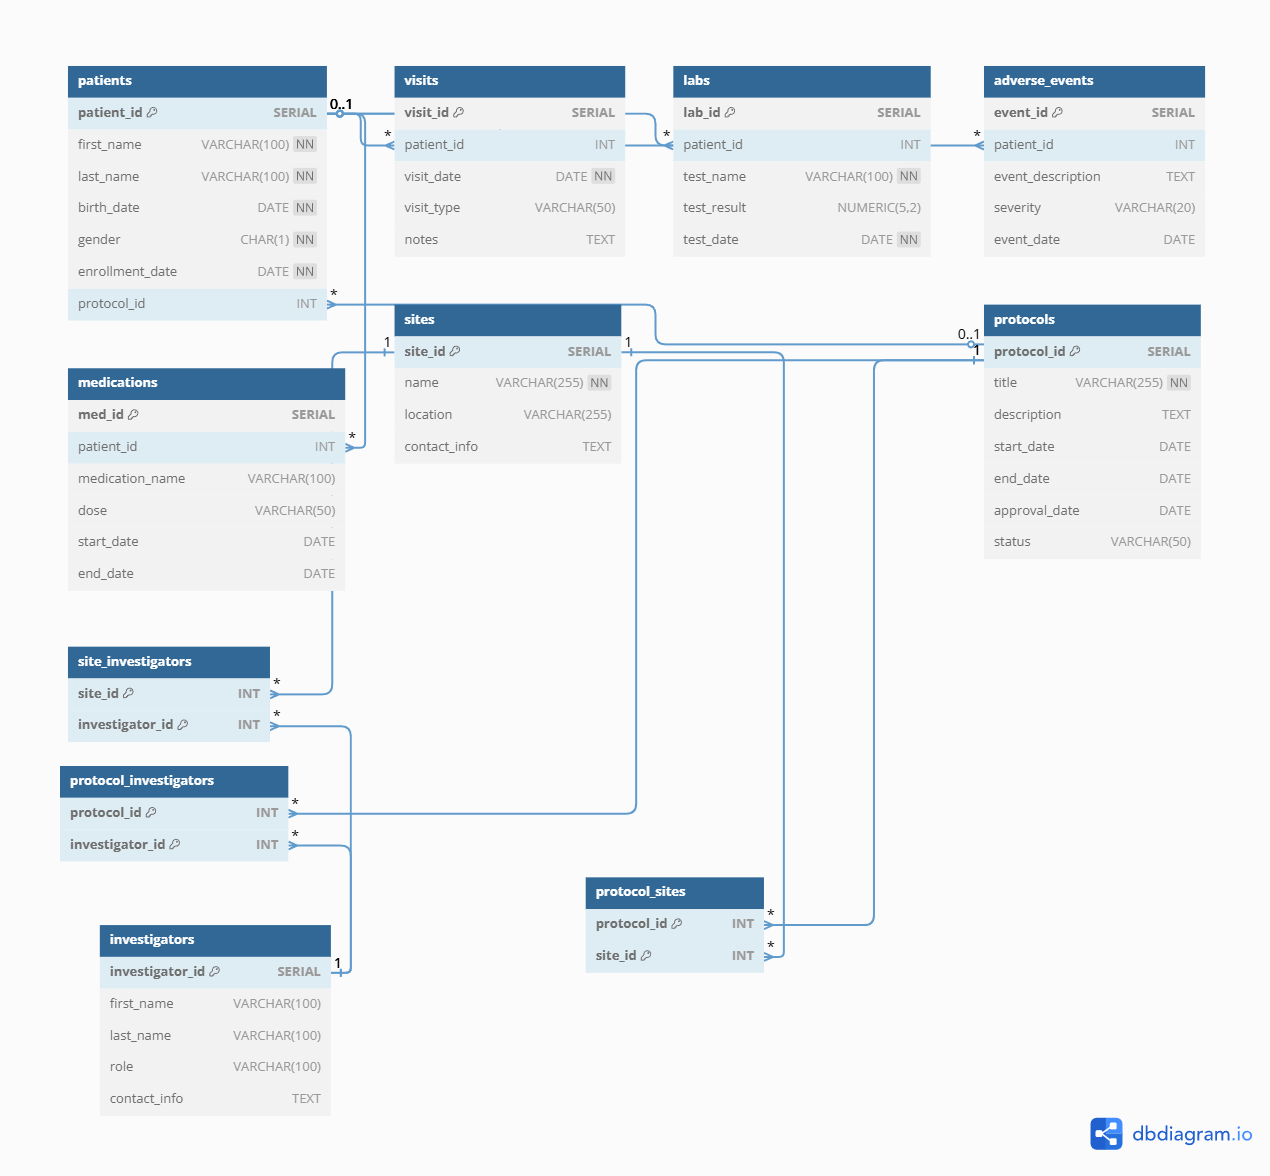
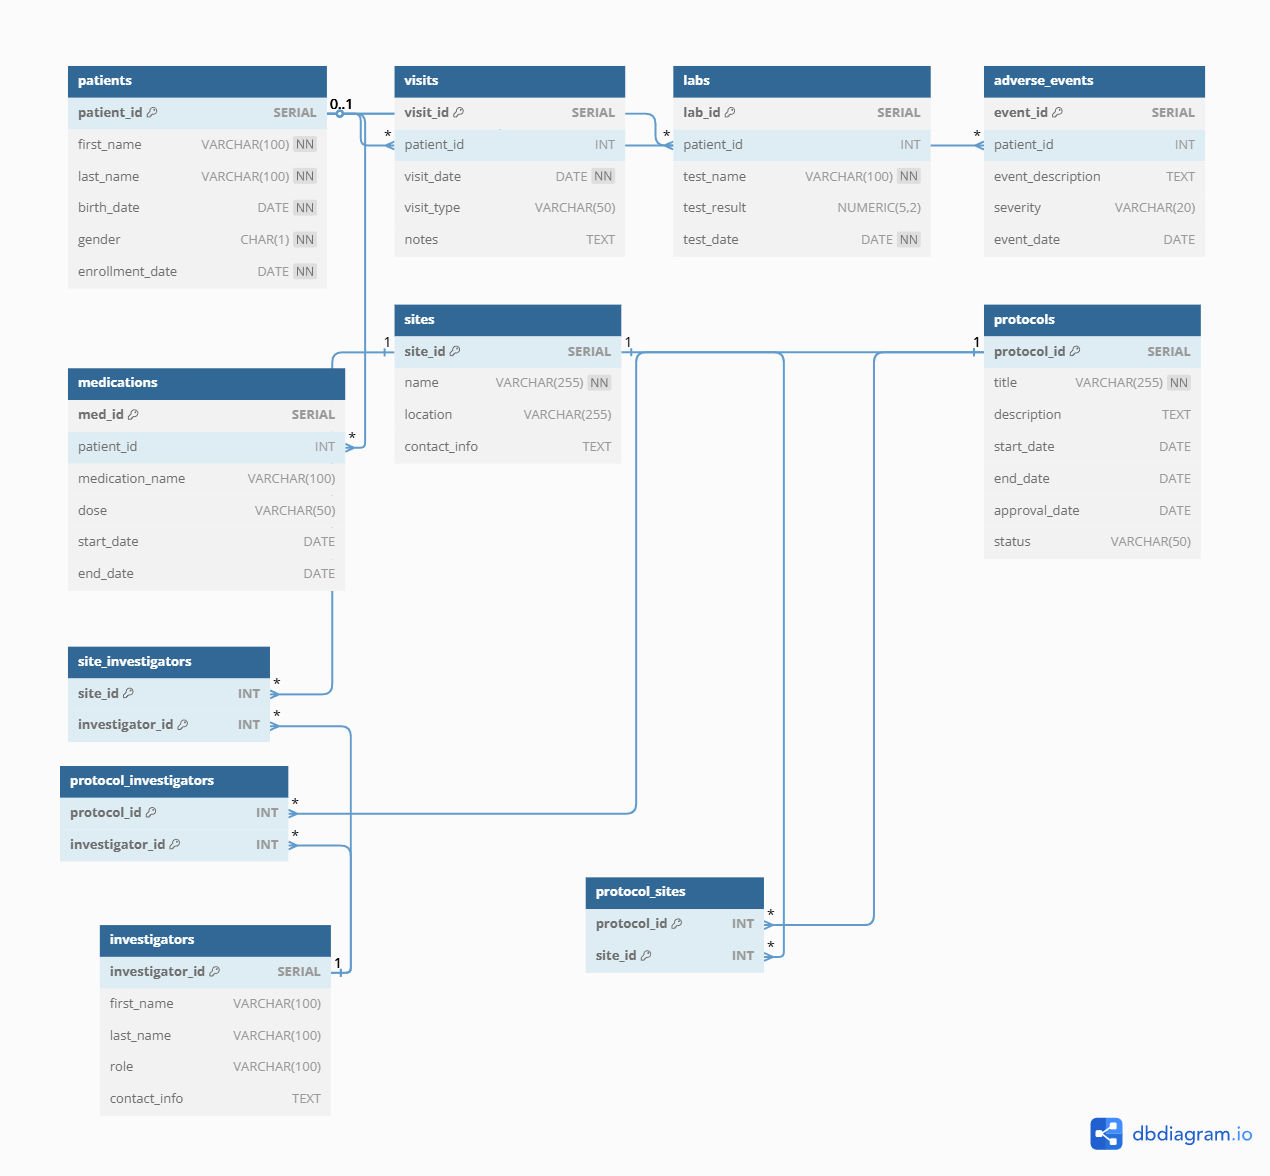
Updated schema to include protocol mappings and refreshed README

Changed region(s): [[0.4913, 0.2755, 0.7677, 0.3061], [0.0307, 0.2449, 0.2764, 0.2755]]

diff --git a/README.md b/README.md
@@ -28,32 +28,38 @@ The following diagram illustrates the relationships between all tables in the cl
 
 ## 🗂 Schema Overview
 
-| Table                | Description                                              |
-|----------------------|----------------------------------------------------------|
-| `patients`           | Demographic and enrollment data for each patient         |
-| `visits`             | Patient visit records with visit type and notes          |
-| `labs`               | Lab test results tied to patients                        |
-| `medications`        | Medications prescribed or administered to patients       |
-| `adverse_events`     | Adverse events reported during the clinical trial        |
-| `sites`              | Clinical trial sites and their locations                 |
-| `investigators`      | Trial investigators and their roles/contact info         |
-| `protocols`          | Protocols under which patients are enrolled              |
-| `site_investigators` | Many-to-many mapping of investigators to trial sites     |
+| Table                    | Description                                                   |
+|--------------------------|---------------------------------------------------------------|
+| `patients`               | Demographic and enrollment data for each patient              |
+| `visits`                 | Patient visit records with visit type and notes               |
+| `labs`                   | Lab test results tied to patients                             |
+| `medications`            | Medications prescribed or administered to patients            |
+| `adverse_events`         | Adverse events reported during the clinical trial             |
+| `sites`                  | Clinical trial sites and their locations                      |
+| `investigators`          | Trial investigators and their roles/contact info              |
+| `protocols`              | Protocols defining the structure and scope of clinical trails |
+| `site_investigators`     | Many-to-many mapping of investigators to trial sites          |
+| `protocol_sites`         | Many-to-many mapping to protocols to sites                    |
+| `protocol_investigators` | Many-to-many mapping of protocols to investigators            |
 
 ---
 
 ## 📂 Project Structure
 
-clinical-trial-db-demo/
-
-├── schema.sql # Creates all tables
-
-├── insert_sample_data.sql # Populates all tables with mock data
-
+simple-clinical-trial-db/
 
 ├── assets/
 
 │ └── erd-diagram.png # Entity Relationship Diagram image
+
+├── data
+
+├── insert_sample_data.sql # Populates all tables with mock data
+
+├── schema
+
+│ └──  schema.sql # Creates all tables
+
 
 ├── README.md # This file
 
@@ -77,28 +83,30 @@ clinical-trial-db-demo/
 ## 🧠 Example SQL Queries
 
 ```sql
+-- List all patients along with their most recent visit date
+SELECT p.patient_id, p.first_name, p.last_name, MAX(v.visit_date) AS last_visit
+FROM patients p
+LEFT JOIN visits v ON p.patient_id = v.patient_id
+GROUP BY p.patient_id, p.first_name, p.last_name;
+    
 -- Patients who experienced more than 2 adverse events
-SELECT p.patient_id, p.first_name, p.last_name, COUNT(*) AS event_count
+SELECT p.patient_id, p.first_name, p.last_name, COUNT(*) AS adverse_event_count
 FROM patients p
 JOIN adverse_events ae ON p.patient_id = ae.patient_id
 GROUP BY p.patient_id
 HAVING COUNT(*) > 2;
 
--- Average Hemoglobin test result per patient
-SELECT patient_id, ROUND(AVG(test_result), 2) AS avg_hemoglobin
+-- Average test result per test_name
+SELECT test_name, ROUND(AVG(test_result), 2) AS average_result
 FROM labs
-WHERE test_name = 'Hemoglobin'
-GROUP BY patient_id;
+GROUP BY test_name;
 
--- Medications currently being taken (no end date)
-SELECT * FROM medications
-WHERE end_date IS NULL;
-
--- List investigators at each site
+-- All investigators working at a specific site (e.g., site_id = 1)
 SELECT s.name AS site_name, i.first_name, i.last_name, i.role
 FROM site_investigators si
 JOIN sites s ON si.site_id = s.site_id
-JOIN investigators i ON si.investigator_id = i.investigator_id;
+JOIN investigators i ON si.investigator_id = i.investigator_id
+WHERE si.site_id = 1;
 
 ```
 
